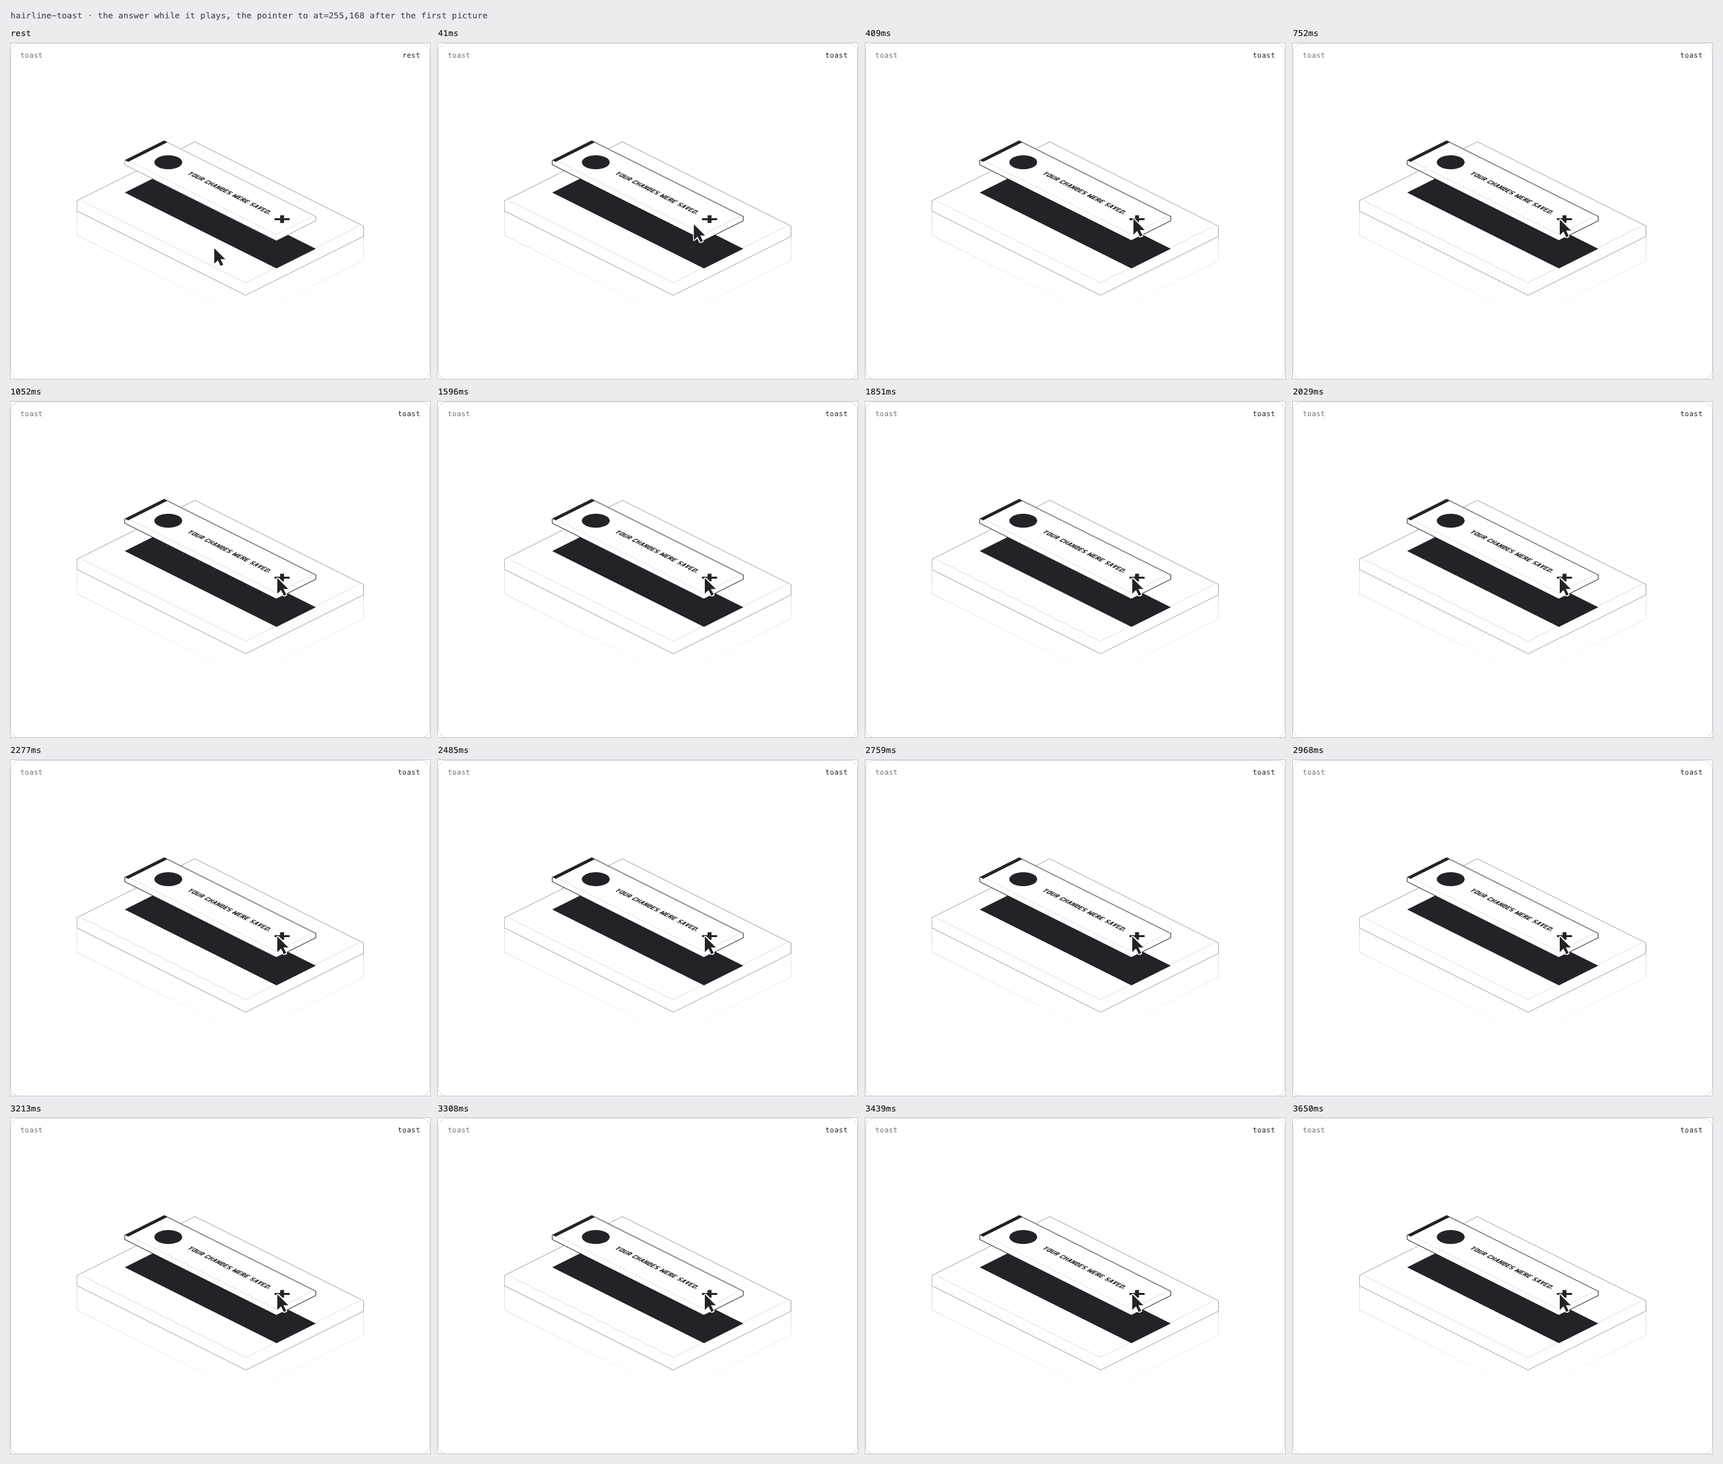
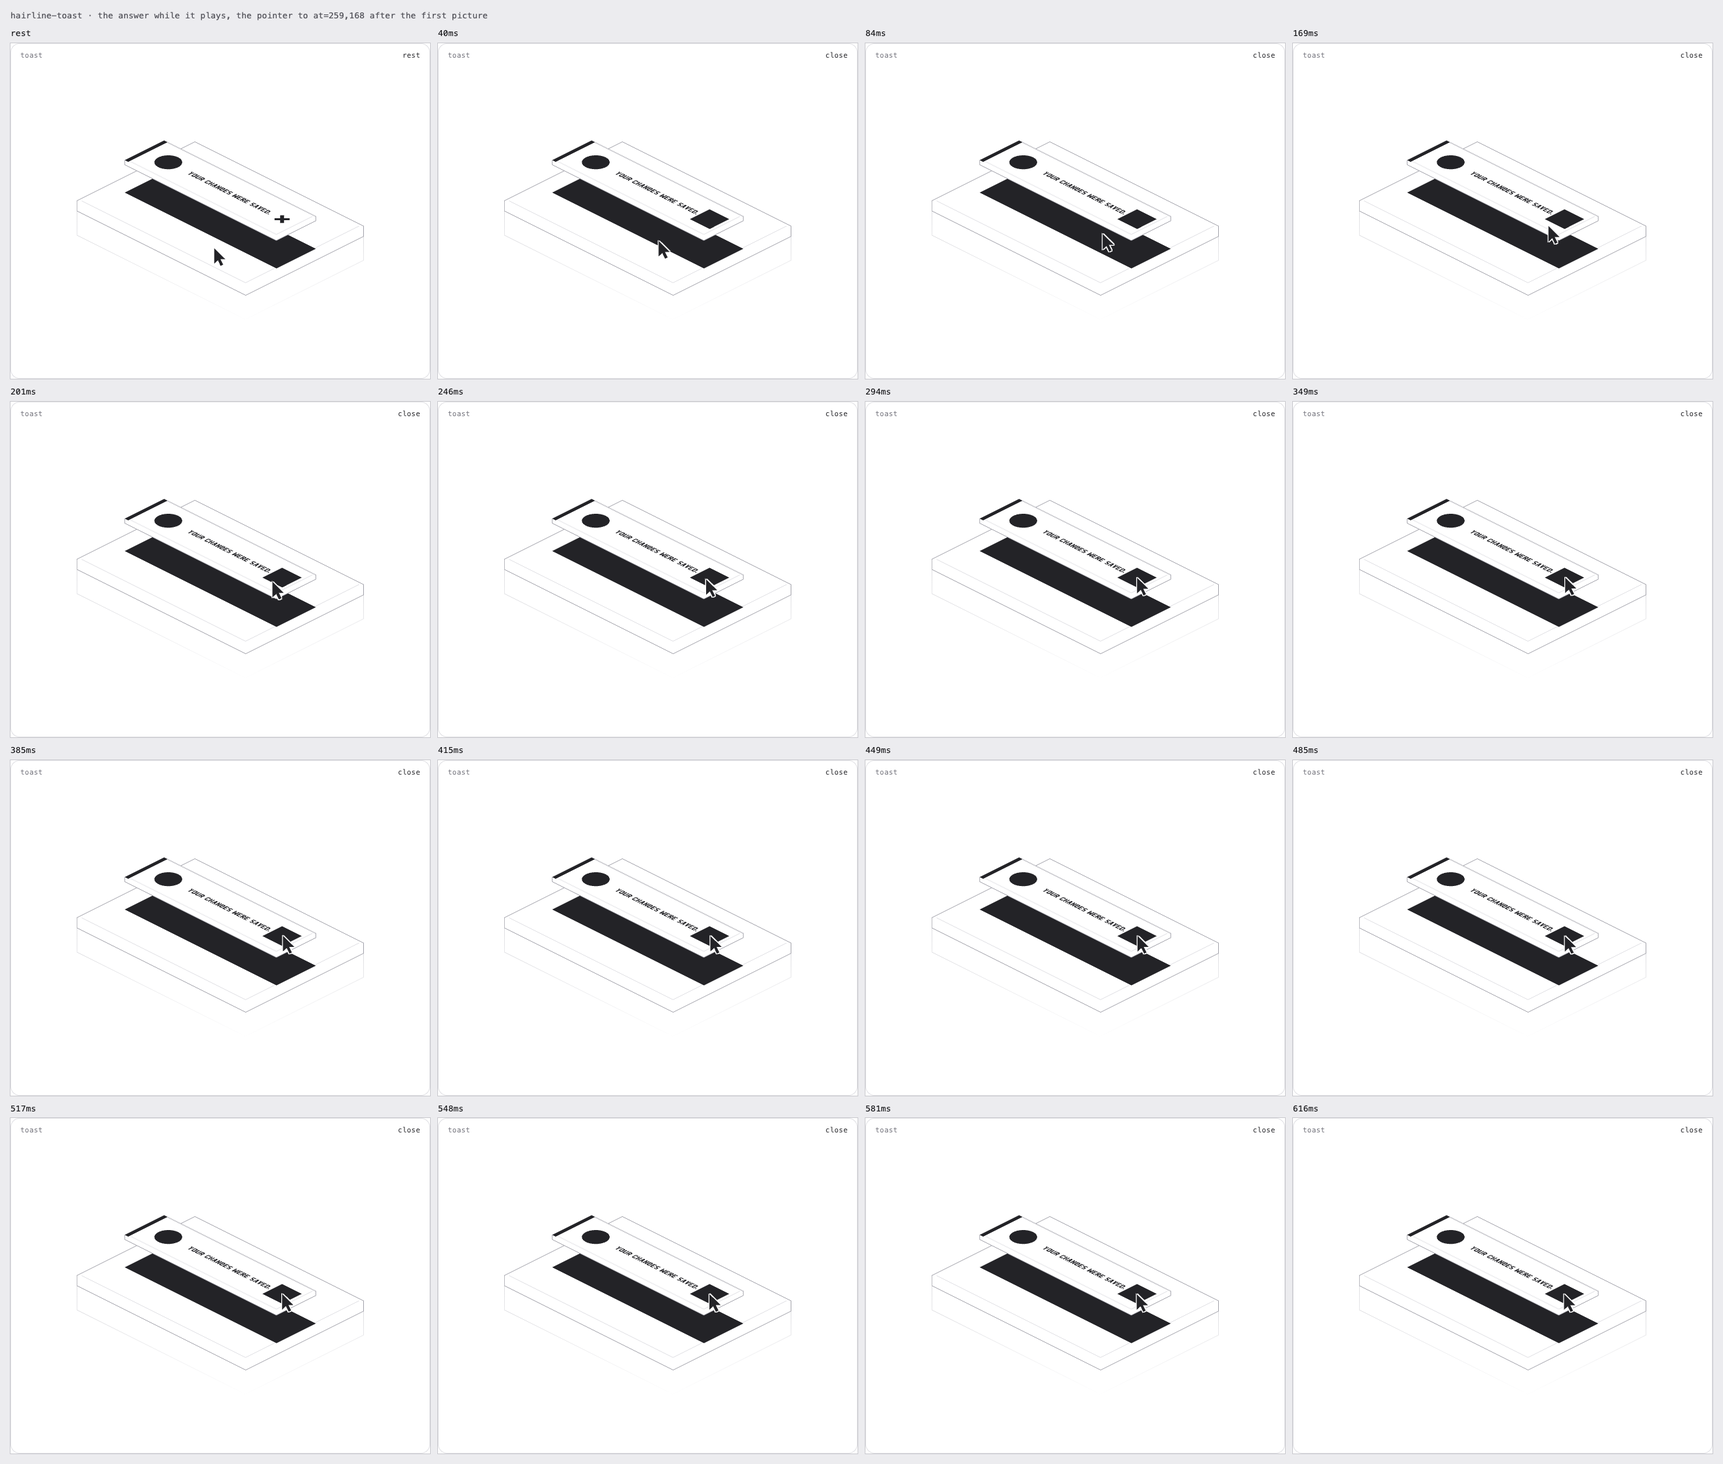
Toast figure: only the close mark answers, tour presses it at once

diff --git a/hairline/hairline-toast.eco.html b/hairline/hairline-toast.eco.html
@@ -72,6 +72,7 @@ input[type="range"]::-webkit-slider-thumb { border-radius: 0; }
 [data-hairline] [data-part="status"], [data-hairline] [data-part="icon"] { fill: var(--color-surface-success-default, #248616); }
 [data-hairline] [data-part="tick"] { fill: var(--color-surface-raised-primary, #ffffff); }
 [data-hairline] [data-part="bar-on"] { fill: var(--color-text-primary, #000000); }
+[data-hairline] [data-part="rowhi"] { fill: var(--color-surface-5, #f2f2f2); } /* hover on the close mark */
 </style>
 </head>
 <body>
@@ -903,7 +904,7 @@ var HL = (() => {
 <script type="module" id="hl-figure">
 /**
  * System Toast: the "Your changes were saved." toast floats above a slab, casting a shadow: a flat green status
- * strip, a check icon, the text and a close mark. The pointer over it lifts its edge; a press (or the close mark) closes
+ * strip, a check icon, the text and a close mark. The pointer over the close mark lights it; a press on the close mark closes
  * it: it slides out to the right and its shadow follows, then it slides back in a moment later. A drawn cursor follows
  * the pointer and rests below the toast. The slider is how high the toast floats.
  */
@@ -973,7 +974,7 @@ function mount({ stage, svg, read }, value) {
   const [qOut, qIn] = rings(X0, Y0, X1, Y1, 0, 1.2);
   const panel = solid(mg);
   const part = (p) => mk("path", { class: "dot", "data-part": p }, mg);
-  const strip = part("status"), icon = part("icon"), tick = part("tick"), text = part("bar-on"), x = part("bar-on");
+  const hi = part("rowhi"), strip = part("status"), icon = part("icon"), tick = part("tick"), text = part("bar-on"), x = part("bar-on");
 
   // the toast slides in from the right (decelerate-emphasized, 300ms) and out again (accelerate-generic, 150ms)
   const q = { x: 1, t: 1, to: 1, from: 1, t0: 0, d: 300, e: null };
@@ -988,7 +989,7 @@ function mount({ stage, svg, read }, value) {
   const cy = (Y0 + Y1) / 2;
   function draw(force) {
     const m = clamp(q.x, 0, 1), z0 = PT + 0.4 + (lift - 0.4) * Math.min(1, m * 1.5), zt = z0 + PH, dx = (1 - m) * SLIDE;
-    const key = m.toFixed(3) + z0.toFixed(2);
+    const key = m.toFixed(3) + z0.toFixed(2) + act;
     if (!force && key === last) return;
     last = key;
     const show = m > 0.01;
@@ -1001,6 +1002,7 @@ function mount({ stage, svg, read }, value) {
     icon.setAttribute("d", poly(ringAt(P, rrect(cx - 7, cy - 7, cx + 7, cy + 7, 7, 14), z)));
     tick.setAttribute("d", poly(TICK.map(([u, v]) => P(cx + u * 0.9, cy + v * 0.9, z + 0.05))));
     text.setAttribute("d", flat(P, label("YOUR CHANGES WERE SAVED.", X0 + dx + 32, cy, U), z));
+    hi.setAttribute("d", rect(P, X1 - 17 + dx, cy - 7, X1 - 3 + dx, cy + 7, zt + 0.05)); hi.setAttribute("display", act >= 0 ? "inline" : "none");
     x.setAttribute("d", flat(P, cross(X1 - 10 + dx, cy, 3.4, 1.4), z));
   }
 
@@ -1018,7 +1020,7 @@ function mount({ stage, svg, read }, value) {
   const press = () => { setOpen(0, performance.now()); pr.x = 1; pr.t = 0; say(); A.wake(); };
   const A = register(stage, (dt, now) => {
     let m = slide(now);
-    if (ghost && act >= 0 && !gdone) { m = true; if (now - gt > 250) { gdone = true; press(); } }
+    if (ghost && act >= 0 && !gdone) { m = true; if (now - gt > 200) { gdone = true; press(); } }
     if (!q.t) { m = true; if (now - closedAt > REOPEN) setOpen(1, now); }
     for (const s of [ax, ay, pr]) if (stepS(s, dt)) m = true;
     draw(); drawCur();
@@ -1030,11 +1032,11 @@ function mount({ stage, svg, read }, value) {
   const pick = ([sx, sy]) => {
     if (!q.t) return -1;
     const [px, py] = unproj(C, sx, sy, PT + lift + PH);
-    return px > X0 - 2 && px < X1 + 2 && py > Y0 - 2 && py < Y1 + 2 ? 0 : -1;
+    return px > X1 - 18 && px < X1 - 2 && py > cy - 8 && py < cy + 8 ? 0 : -1; // only the close mark answers
   };
-  const say = () => { read.textContent = !q.t ? "closed" : act < 0 ? "open" : "toast"; };
+  const say = () => { read.textContent = !q.t ? "closed" : act < 0 ? "open" : "close"; };
   function set(a, p) {
-    if (a !== act) { act = a; gdone = !ghost; gt = performance.now(); panel.sil.classList.toggle("hi", a >= 0); say(); }
+    if (a !== act) { act = a; gdone = !ghost; gt = performance.now(); say(); }
     if (p) { ax.t = p[0]; ay.t = p[1]; } else { ax.t = rest[0]; ay.t = rest[1]; }
     A.wake();
   }
@@ -1051,10 +1053,10 @@ function mount({ stage, svg, read }, value) {
 
 hairline({
   name: "toast",
-  means: "The saved toast floating over a slab: a press on it closes it, it slides out to the right, then back in.",
+  means: "The saved toast floating over a slab: a press on its close mark closes it, it slides out to the right, then back in.",
   rules: [1, 4, 8, 9],
   range: [6, 12, 16],
-  tour: [[0, 0], null, [0, 0], null],
+  tour: [[173, 135], null, [255, 168], null],
   mount,
 });
 </script>

diff --git a/hairline/hairline-toast.html b/hairline/hairline-toast.html
@@ -878,7 +878,7 @@ var HL = (() => {
 <script type="module" id="hl-figure">
 /**
  * System Toast: the "Your changes were saved." toast floats above a slab, casting a shadow: a flat green status
- * strip, a check icon, the text and a close mark. The pointer over it lifts its edge; a press (or the close mark) closes
+ * strip, a check icon, the text and a close mark. The pointer over the close mark lights it; a press on the close mark closes
  * it: it slides out to the right and its shadow follows, then it slides back in a moment later. A drawn cursor follows
  * the pointer and rests below the toast. The slider is how high the toast floats.
  */
@@ -948,7 +948,7 @@ function mount({ stage, svg, read }, value) {
   const [qOut, qIn] = rings(X0, Y0, X1, Y1, 0, 1.2);
   const panel = solid(mg);
   const part = (p) => mk("path", { class: "dot", "data-part": p }, mg);
-  const strip = part("status"), icon = part("icon"), tick = part("tick"), text = part("bar-on"), x = part("bar-on");
+  const hi = part("rowhi"), strip = part("status"), icon = part("icon"), tick = part("tick"), text = part("bar-on"), x = part("bar-on");
 
   // the toast slides in from the right (decelerate-emphasized, 300ms) and out again (accelerate-generic, 150ms)
   const q = { x: 1, t: 1, to: 1, from: 1, t0: 0, d: 300, e: null };
@@ -963,7 +963,7 @@ function mount({ stage, svg, read }, value) {
   const cy = (Y0 + Y1) / 2;
   function draw(force) {
     const m = clamp(q.x, 0, 1), z0 = PT + 0.4 + (lift - 0.4) * Math.min(1, m * 1.5), zt = z0 + PH, dx = (1 - m) * SLIDE;
-    const key = m.toFixed(3) + z0.toFixed(2);
+    const key = m.toFixed(3) + z0.toFixed(2) + act;
     if (!force && key === last) return;
     last = key;
     const show = m > 0.01;
@@ -976,6 +976,7 @@ function mount({ stage, svg, read }, value) {
     icon.setAttribute("d", poly(ringAt(P, rrect(cx - 7, cy - 7, cx + 7, cy + 7, 7, 14), z)));
     tick.setAttribute("d", poly(TICK.map(([u, v]) => P(cx + u * 0.9, cy + v * 0.9, z + 0.05))));
     text.setAttribute("d", flat(P, label("YOUR CHANGES WERE SAVED.", X0 + dx + 32, cy, U), z));
+    hi.setAttribute("d", rect(P, X1 - 17 + dx, cy - 7, X1 - 3 + dx, cy + 7, zt + 0.05)); hi.setAttribute("display", act >= 0 ? "inline" : "none");
     x.setAttribute("d", flat(P, cross(X1 - 10 + dx, cy, 3.4, 1.4), z));
   }
 
@@ -993,7 +994,7 @@ function mount({ stage, svg, read }, value) {
   const press = () => { setOpen(0, performance.now()); pr.x = 1; pr.t = 0; say(); A.wake(); };
   const A = register(stage, (dt, now) => {
     let m = slide(now);
-    if (ghost && act >= 0 && !gdone) { m = true; if (now - gt > 250) { gdone = true; press(); } }
+    if (ghost && act >= 0 && !gdone) { m = true; if (now - gt > 200) { gdone = true; press(); } }
     if (!q.t) { m = true; if (now - closedAt > REOPEN) setOpen(1, now); }
     for (const s of [ax, ay, pr]) if (stepS(s, dt)) m = true;
     draw(); drawCur();
@@ -1005,18 +1006,18 @@ function mount({ stage, svg, read }, value) {
   const pick = ([sx, sy]) => {
     if (!q.t) return -1;
     const [px, py] = unproj(C, sx, sy, PT + lift + PH);
-    return px > X0 - 2 && px < X1 + 2 && py > Y0 - 2 && py < Y1 + 2 ? 0 : -1;
+    return px > X1 - 18 && px < X1 - 2 && py > cy - 8 && py < cy + 8 ? 0 : -1; // only the close mark answers
   };
-  const say = () => { read.textContent = !q.t ? "closed" : act < 0 ? "open" : "toast"; };
+  const say = () => { read.textContent = !q.t ? "closed" : act < 0 ? "open" : "close"; };
   function set(a, p) {
-    if (a !== act) { act = a; gdone = !ghost; gt = performance.now(); panel.sil.classList.toggle("hi", a >= 0); say(); }
+    if (a !== act) { act = a; gdone = !ghost; gt = performance.now(); say(); }
     if (p) { ax.t = p[0]; ay.t = p[1]; } else { ax.t = rest[0]; ay.t = rest[1]; }
     A.wake();
   }
   bag.add(pointer(stage, {
     move: (p, e) => { ghost = e?.pointerType === "ghost"; set(pick(p), p); gt = performance.now(); },
     down: (p) => { const a = pick(p); ghost = false; set(a, p); if (a >= 0) press(); },
-    leave: (e) => { if (e?.pointerType === "ghost") setOpen(1, performance.now()); ghost = false; set(-1); },
+    leave: () => { ghost = false; set(-1); }, // a closed toast reopens on its own timer
   }));
   bag.add(() => svg.replaceChildren());
 
@@ -1026,10 +1027,10 @@ function mount({ stage, svg, read }, value) {
 
 hairline({
   name: "toast",
-  means: "The saved toast floating over a slab: a press on it closes it, it slides out to the right, then back in.",
+  means: "The saved toast floating over a slab: a press on its close mark closes it, it slides out to the right, then back in.",
   rules: [1, 4, 8, 9],
   range: [6, 12, 16],
-  tour: [[0, 0], null, [0, 0], null],
+  tour: [[259, 168], null, [259, 168], null],
   mount,
 });
 </script>

diff --git a/hairline/toast.js b/hairline/toast.js
@@ -1,6 +1,6 @@
 /**
  * System Toast: the "Your changes were saved." toast floats above a slab, casting a shadow: a flat green status
- * strip, a check icon, the text and a close mark. The pointer over it lifts its edge; a press (or the close mark) closes
+ * strip, a check icon, the text and a close mark. The pointer over the close mark lights it; a press on the close mark closes
  * it: it slides out to the right and its shadow follows, then it slides back in a moment later. A drawn cursor follows
  * the pointer and rests below the toast. The slider is how high the toast floats.
  */
@@ -70,7 +70,7 @@ function mount({ stage, svg, read }, value) {
   const [qOut, qIn] = rings(X0, Y0, X1, Y1, 0, 1.2);
   const panel = solid(mg);
   const part = (p) => mk("path", { class: "dot", "data-part": p }, mg);
-  const strip = part("status"), icon = part("icon"), tick = part("tick"), text = part("bar-on"), x = part("bar-on");
+  const hi = part("rowhi"), strip = part("status"), icon = part("icon"), tick = part("tick"), text = part("bar-on"), x = part("bar-on");
 
   // the toast slides in from the right (decelerate-emphasized, 300ms) and out again (accelerate-generic, 150ms)
   const q = { x: 1, t: 1, to: 1, from: 1, t0: 0, d: 300, e: null };
@@ -85,7 +85,7 @@ function mount({ stage, svg, read }, value) {
   const cy = (Y0 + Y1) / 2;
   function draw(force) {
     const m = clamp(q.x, 0, 1), z0 = PT + 0.4 + (lift - 0.4) * Math.min(1, m * 1.5), zt = z0 + PH, dx = (1 - m) * SLIDE;
-    const key = m.toFixed(3) + z0.toFixed(2);
+    const key = m.toFixed(3) + z0.toFixed(2) + act;
     if (!force && key === last) return;
     last = key;
     const show = m > 0.01;
@@ -98,6 +98,7 @@ function mount({ stage, svg, read }, value) {
     icon.setAttribute("d", poly(ringAt(P, rrect(cx - 7, cy - 7, cx + 7, cy + 7, 7, 14), z)));
     tick.setAttribute("d", poly(TICK.map(([u, v]) => P(cx + u * 0.9, cy + v * 0.9, z + 0.05))));
     text.setAttribute("d", flat(P, label("YOUR CHANGES WERE SAVED.", X0 + dx + 32, cy, U), z));
+    hi.setAttribute("d", rect(P, X1 - 17 + dx, cy - 7, X1 - 3 + dx, cy + 7, zt + 0.05)); hi.setAttribute("display", act >= 0 ? "inline" : "none");
     x.setAttribute("d", flat(P, cross(X1 - 10 + dx, cy, 3.4, 1.4), z));
   }
 
@@ -115,7 +116,7 @@ function mount({ stage, svg, read }, value) {
   const press = () => { setOpen(0, performance.now()); pr.x = 1; pr.t = 0; say(); A.wake(); };
   const A = register(stage, (dt, now) => {
     let m = slide(now);
-    if (ghost && act >= 0 && !gdone) { m = true; if (now - gt > 250) { gdone = true; press(); } }
+    if (ghost && act >= 0 && !gdone) { m = true; if (now - gt > 200) { gdone = true; press(); } }
     if (!q.t) { m = true; if (now - closedAt > REOPEN) setOpen(1, now); }
     for (const s of [ax, ay, pr]) if (stepS(s, dt)) m = true;
     draw(); drawCur();
@@ -127,18 +128,18 @@ function mount({ stage, svg, read }, value) {
   const pick = ([sx, sy]) => {
     if (!q.t) return -1;
     const [px, py] = unproj(C, sx, sy, PT + lift + PH);
-    return px > X0 - 2 && px < X1 + 2 && py > Y0 - 2 && py < Y1 + 2 ? 0 : -1;
+    return px > X1 - 18 && px < X1 - 2 && py > cy - 8 && py < cy + 8 ? 0 : -1; // only the close mark answers
   };
-  const say = () => { read.textContent = !q.t ? "closed" : act < 0 ? "open" : "toast"; };
+  const say = () => { read.textContent = !q.t ? "closed" : act < 0 ? "open" : "close"; };
   function set(a, p) {
-    if (a !== act) { act = a; gdone = !ghost; gt = performance.now(); panel.sil.classList.toggle("hi", a >= 0); say(); }
+    if (a !== act) { act = a; gdone = !ghost; gt = performance.now(); say(); }
     if (p) { ax.t = p[0]; ay.t = p[1]; } else { ax.t = rest[0]; ay.t = rest[1]; }
     A.wake();
   }
   bag.add(pointer(stage, {
     move: (p, e) => { ghost = e?.pointerType === "ghost"; set(pick(p), p); gt = performance.now(); },
     down: (p) => { const a = pick(p); ghost = false; set(a, p); if (a >= 0) press(); },
-    leave: (e) => { if (e?.pointerType === "ghost") setOpen(1, performance.now()); ghost = false; set(-1); },
+    leave: () => { ghost = false; set(-1); }, // a closed toast reopens on its own timer
   }));
   bag.add(() => svg.replaceChildren());
 
@@ -148,9 +149,9 @@ function mount({ stage, svg, read }, value) {
 
 hairline({
   name: "toast",
-  means: "The saved toast floating over a slab: a press on it closes it, it slides out to the right, then back in.",
+  means: "The saved toast floating over a slab: a press on its close mark closes it, it slides out to the right, then back in.",
   rules: [1, 4, 8, 9],
   range: [6, 12, 16],
-  tour: [[173, 135], null, [255, 168], null],
+  tour: [[259, 168], null, [259, 168], null],
   mount,
 });

diff --git a/hairline/hairline-card.css b/hairline/hairline-card.css
@@ -112,4 +112,5 @@
 [data-hairline="toast"] [data-part="status"], [data-hairline="toast"] [data-part="icon"] { fill: var(--color-surface-success-default, #248616); }
 [data-hairline="toast"] [data-part="tick"] { fill: var(--color-surface-raised-primary, #ffffff); }
 [data-hairline="toast"] [data-part="bar-on"] { fill: var(--color-text-primary, #000000); }
+[data-hairline="toast"] [data-part="rowhi"] { fill: var(--color-surface-5, #f2f2f2); } /* hover on the close mark */
 .ds-card__visual--hairline [data-hairline-card="toast"] { transform: translateY(14px); }

diff --git a/eco-design-system/components-overview.html b/eco-design-system/components-overview.html
@@ -217,7 +217,7 @@
 
       <a class="ds-card" href="components/toast.html">
         <div class="ds-card__visual ds-card__visual--hairline" aria-hidden="true">
-          <div data-hairline-card="toast" data-play data-src="../hairline/toast.js"></div>
+          <div data-hairline-card="toast" data-play data-travel="450" data-dwell="600" data-src="../hairline/toast.js"></div>
         </div>
         <div class="ds-card__body">
           <div class="ds-card__top"><span class="ds-card__title">Toast</span><span class="ds-tag ds-tag--live">Live</span></div>

diff --git a/hairline/toast.eco.css b/hairline/toast.eco.css
@@ -19,3 +19,4 @@ input[type="range"]::-webkit-slider-thumb { border-radius: 0; }
 [data-hairline] [data-part="status"], [data-hairline] [data-part="icon"] { fill: var(--color-surface-success-default, #248616); }
 [data-hairline] [data-part="tick"] { fill: var(--color-surface-raised-primary, #ffffff); }
 [data-hairline] [data-part="bar-on"] { fill: var(--color-text-primary, #000000); }
+[data-hairline] [data-part="rowhi"] { fill: var(--color-surface-5, #f2f2f2); } /* hover on the close mark */

diff --git a/hairline/README.md b/hairline/README.md
@@ -54,4 +54,4 @@ Hela förfarandet för en ny komponent står i skillen `eco-card-animation` (`.c
 - Pill segment control (`pill.js`, `pill.eco.css`, `hairline-pill.html`/`.eco.html`): stadium track recessed in a slab, two segments (ALL, NEW) and a black pill. Hover darkens the track and underlines the inactive label; press slides the pill (300 ms `ease-standard`, the component's own) and the labels swap (grey on floor, white on the pill). Kortet i `components-overview.html` är utbytt (2026-10-20, gammal visual i `card-visuals-archive/pill-segment-control.html`); `overview.html` har fortfarande CSS-versionen. Turen visas bara när pekaren är på kortets text, inte över själva figuren (då tar riktig pekare över).
 - Icon picker (`icon-picker.js`, `icon-picker.eco.css`, kort-CSS i `hairline-card.css`): nedsänkt fält som i Input (tomt, grå platshållare) + panel som öppnas ovanpå (titel, sökruta, sex ikoner). Turen: pekaren över fältet skriver HOME (textmarkör), panelen öppnas med HOME i sökrutan, pekaren väljer home-ikonen, namnet hamnar i fältet, panelen stängs, varvet slutar i vila. Kortet i `components-overview.html` är utbytt (2026-10-20, gammal visual i `card-visuals-archive/icon-picker.html`); `index.html` har kvar CSS-versionen.
 
-- **Toast** (`toast.js`, `toast.eco.css`, kort-CSS i `hairline-card.css`): System Toast efter E-Com Toast-figuren: panelen svävar över plattan med skugga, platt grön statusremsa, grön bock-ikon, texten "YOUR CHANGES WERE SAVED." som glyfer och ett ×. Hover tänder kanten, tryck stänger (glider ut åt höger 150 ms `ease-accelerate-generic`, skuggan följer) och efter 1,1 s glider den in igen (300 ms `ease-decelerate-emphasized`). Ingen auto-hide-timer i figuren (tryck stänger). Kortet i `components-overview.html` är utbytt (2026-10-20, gammal visual i `card-visuals-archive/toast.html`); `eco-design-system/index.html` har fortfarande CSS-versionen.
+- **Toast** (`toast.js`, `toast.eco.css`, kort-CSS i `hairline-card.css`): System Toast efter E-Com Toast-figuren: panelen svävar över plattan med skugga, platt grön statusremsa, grön bock-ikon, texten "YOUR CHANGES WERE SAVED." som glyfer och ett ×. Bara ×:et svarar: hover tänder det, tryck stänger; touren går direkt till ×:et (kortet har `data-travel="450" data-dwell="600"`) (glider ut åt höger 150 ms `ease-accelerate-generic`, skuggan följer) och efter 1,1 s glider den in igen (300 ms `ease-decelerate-emphasized`). Ingen auto-hide-timer i figuren (tryck stänger). Kortet i `components-overview.html` är utbytt (2026-10-20, gammal visual i `card-visuals-archive/toast.html`); `eco-design-system/index.html` har fortfarande CSS-versionen.
